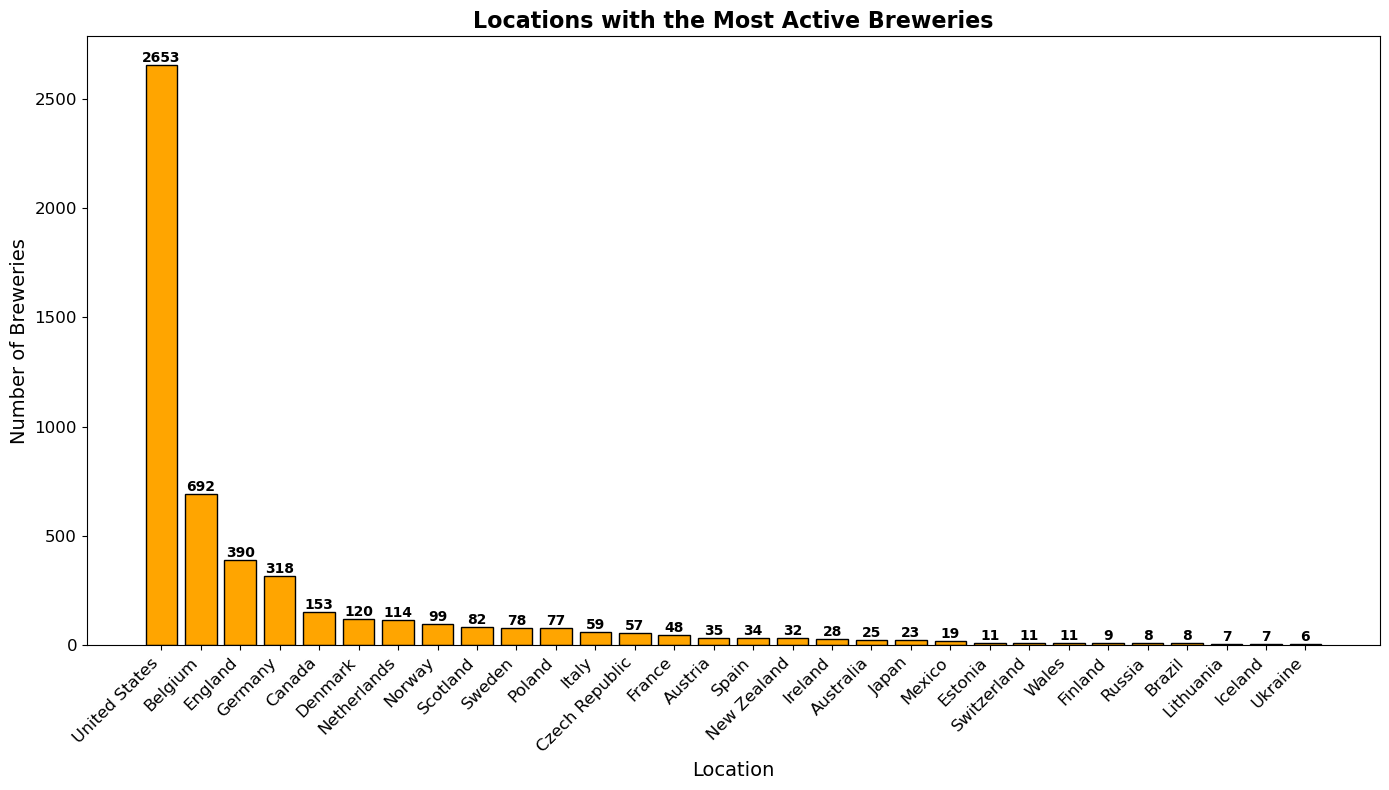
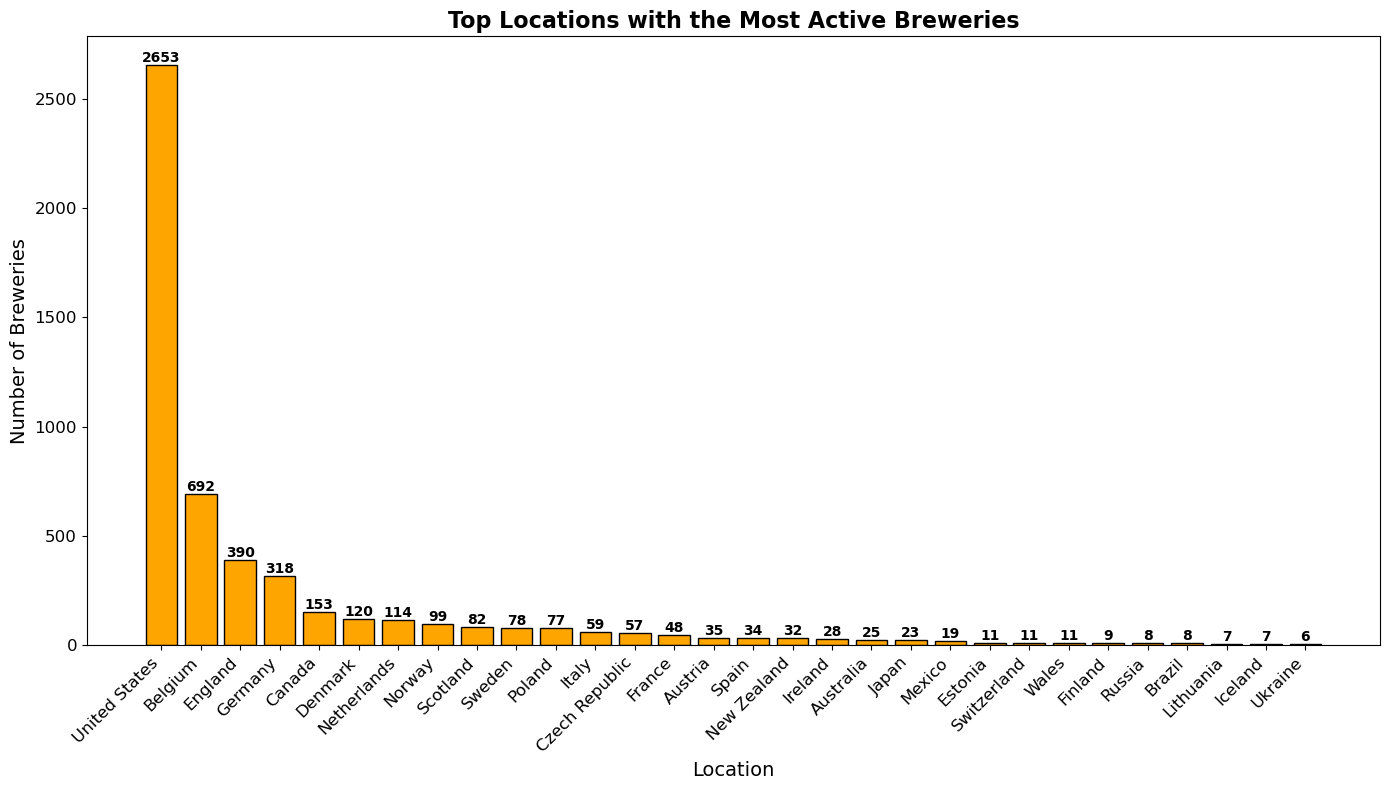
Changed plot and added changed figure stuff

Changed region(s): [[0.3096, 0.0, 0.743, 0.0608]]

diff --git a/index.md b/index.md
@@ -50,19 +50,19 @@ As to get a better ideas of what beers the common man is likely to drink, we hav
     Figure 1: Top Locations by Average Beer Rating.
     </div>
     <div id="figure2" class="caption" style="text-align: center; font-size: 0.8em;">
-    Figure 2: Top Locations by Number of Breweries.
+    Figure 2: Top Locations with the Most Active Breweries.
     </div>
     <div id="figure3" class="caption" style="text-align: center; font-size: 0.8em;">
-    Figure 3: Top Locations by Number of Active Users.
+    Figure 3: Top Locations with the Most Active Users.
     </div>
   </body>
 </html>
 
-<div class="l-page">
-  <iframe src="{{ '/assets/plotly/breweries_per_area.html' | relative_url }}" frameborder='0' scrolling='yes' height="600px" width="100%" style="border: 0px;"></iframe>
+<div class="l-page" style="max-width: 100%;">
+  <iframe src="{{ '/assets/plotly/breweries_per_area.html' | relative_url }}" frameborder='0' scrolling='no' height="600px" width="100%" style="border: 0px;"></iframe>
 </div>
-<div id="figure5" class="caption" style="text-align: center; font-size: 0.8em;">
-    Figure 5: Average Ratings of Beers Based on Location of Brewery.
+<div id="figure4" class="caption" style="text-align: center; font-size: 0.8em;">
+    Figure 4: Ratios of Breweries Per Area [KM2].
 </div>
 
 ## The Beer Ratings
@@ -79,7 +79,7 @@ As to get a better ideas of what beers the common man is likely to drink, we hav
 *Insert text here* 
 
 <div class="l-page" style="max-width: 100%;">
-  <img src="{{ '/assets/plotly/Top10RatedBeers.png' | relative_url }}" frameborder='0' scrolling='yes' height="600px" width="100%" style="border: 0px">
+  <img src="{{ '/assets/plotly/Top10RatedBeers.png' | relative_url }}" frameborder='0' scrolling='no' height="600px" width="100%" style="border: 0px">
 </div>
 <div id="figure6" class="caption" style="text-align: center; font-size: 0.8em;">
     Figure 6: Top 10 rated beers based on average rating.
@@ -87,7 +87,7 @@ As to get a better ideas of what beers the common man is likely to drink, we hav
 
 ## The Beer Reviews
 
-<div class="l-page">
+<div class="l-page" style="max-width: 100%;">
   <iframe src="{{ '/assets/plotly/Tree_plot_more.html' | relative_url }}" frameborder='0' scrolling='no' height="600px" width="100%" style="border: 0px;"></iframe>
 </div>
 <div id="figure7" class="caption" style="text-align: center; font-size: 0.8em;">
